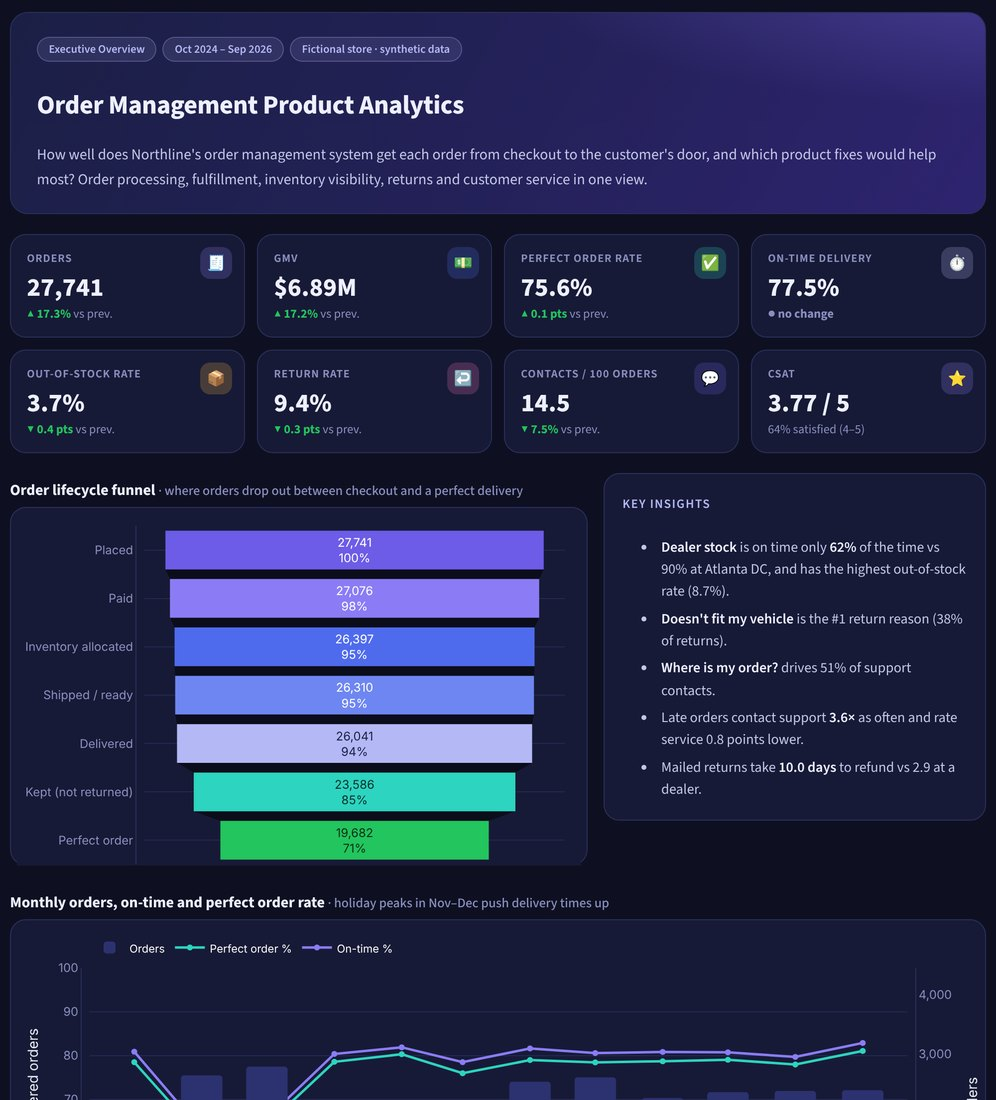
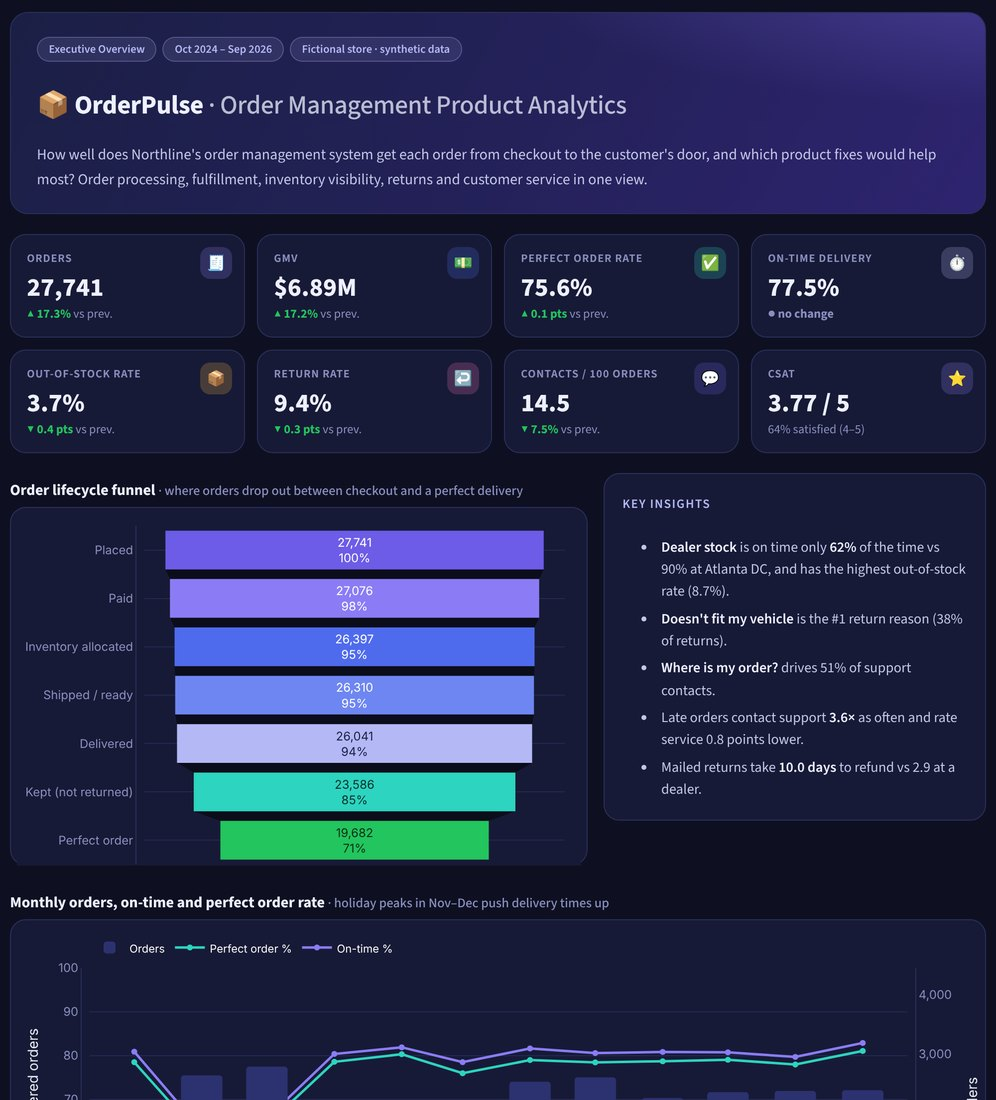
Name the order management project OrderPulse

Changed region(s): [[0.0311, 0.0618, 0.6225, 0.1236]]

diff --git a/index.html b/index.html
@@ -528,11 +528,11 @@ footer{padding-block:40px;color:var(--dim);font-size:.85rem;display:flex;flex-wr
     <!-- Order Management Product Analytics -->
     <article class="proj flip" style="--c:#6C5CE7;--on:#fff;--tint:rgba(108,92,231,.26)">
       <div class="vis">
-        <figure class="shot"><img src="images/oms.jpg" alt="Order Management Product Analytics dashboard — executive overview"><figcaption>Live dashboard · Executive Overview</figcaption></figure>
+        <figure class="shot"><img src="images/oms.jpg" alt="OrderPulse order management product analytics dashboard — executive overview"><figcaption>Live dashboard · Executive Overview</figcaption></figure>
       </div>
       <div class="info">
         <span class="tagline">Product management · E-commerce operations</span>
-        <h3>Order Management Product Analytics</h3>
+        <h3>📦 OrderPulse <span style="font-weight:500;opacity:.7">· Order Management Product Analytics</span></h3>
         <p class="sum">A product manager&rsquo;s view of an e-commerce order management system: where orders go wrong between checkout and the customer&rsquo;s door, what each problem costs, which fix to build first, and an A/B test to prove it. Built on 51,000 synthetic orders for a fictional auto-parts store.</p>
         <h5>What I found</h5>
         <ul class="pts">
